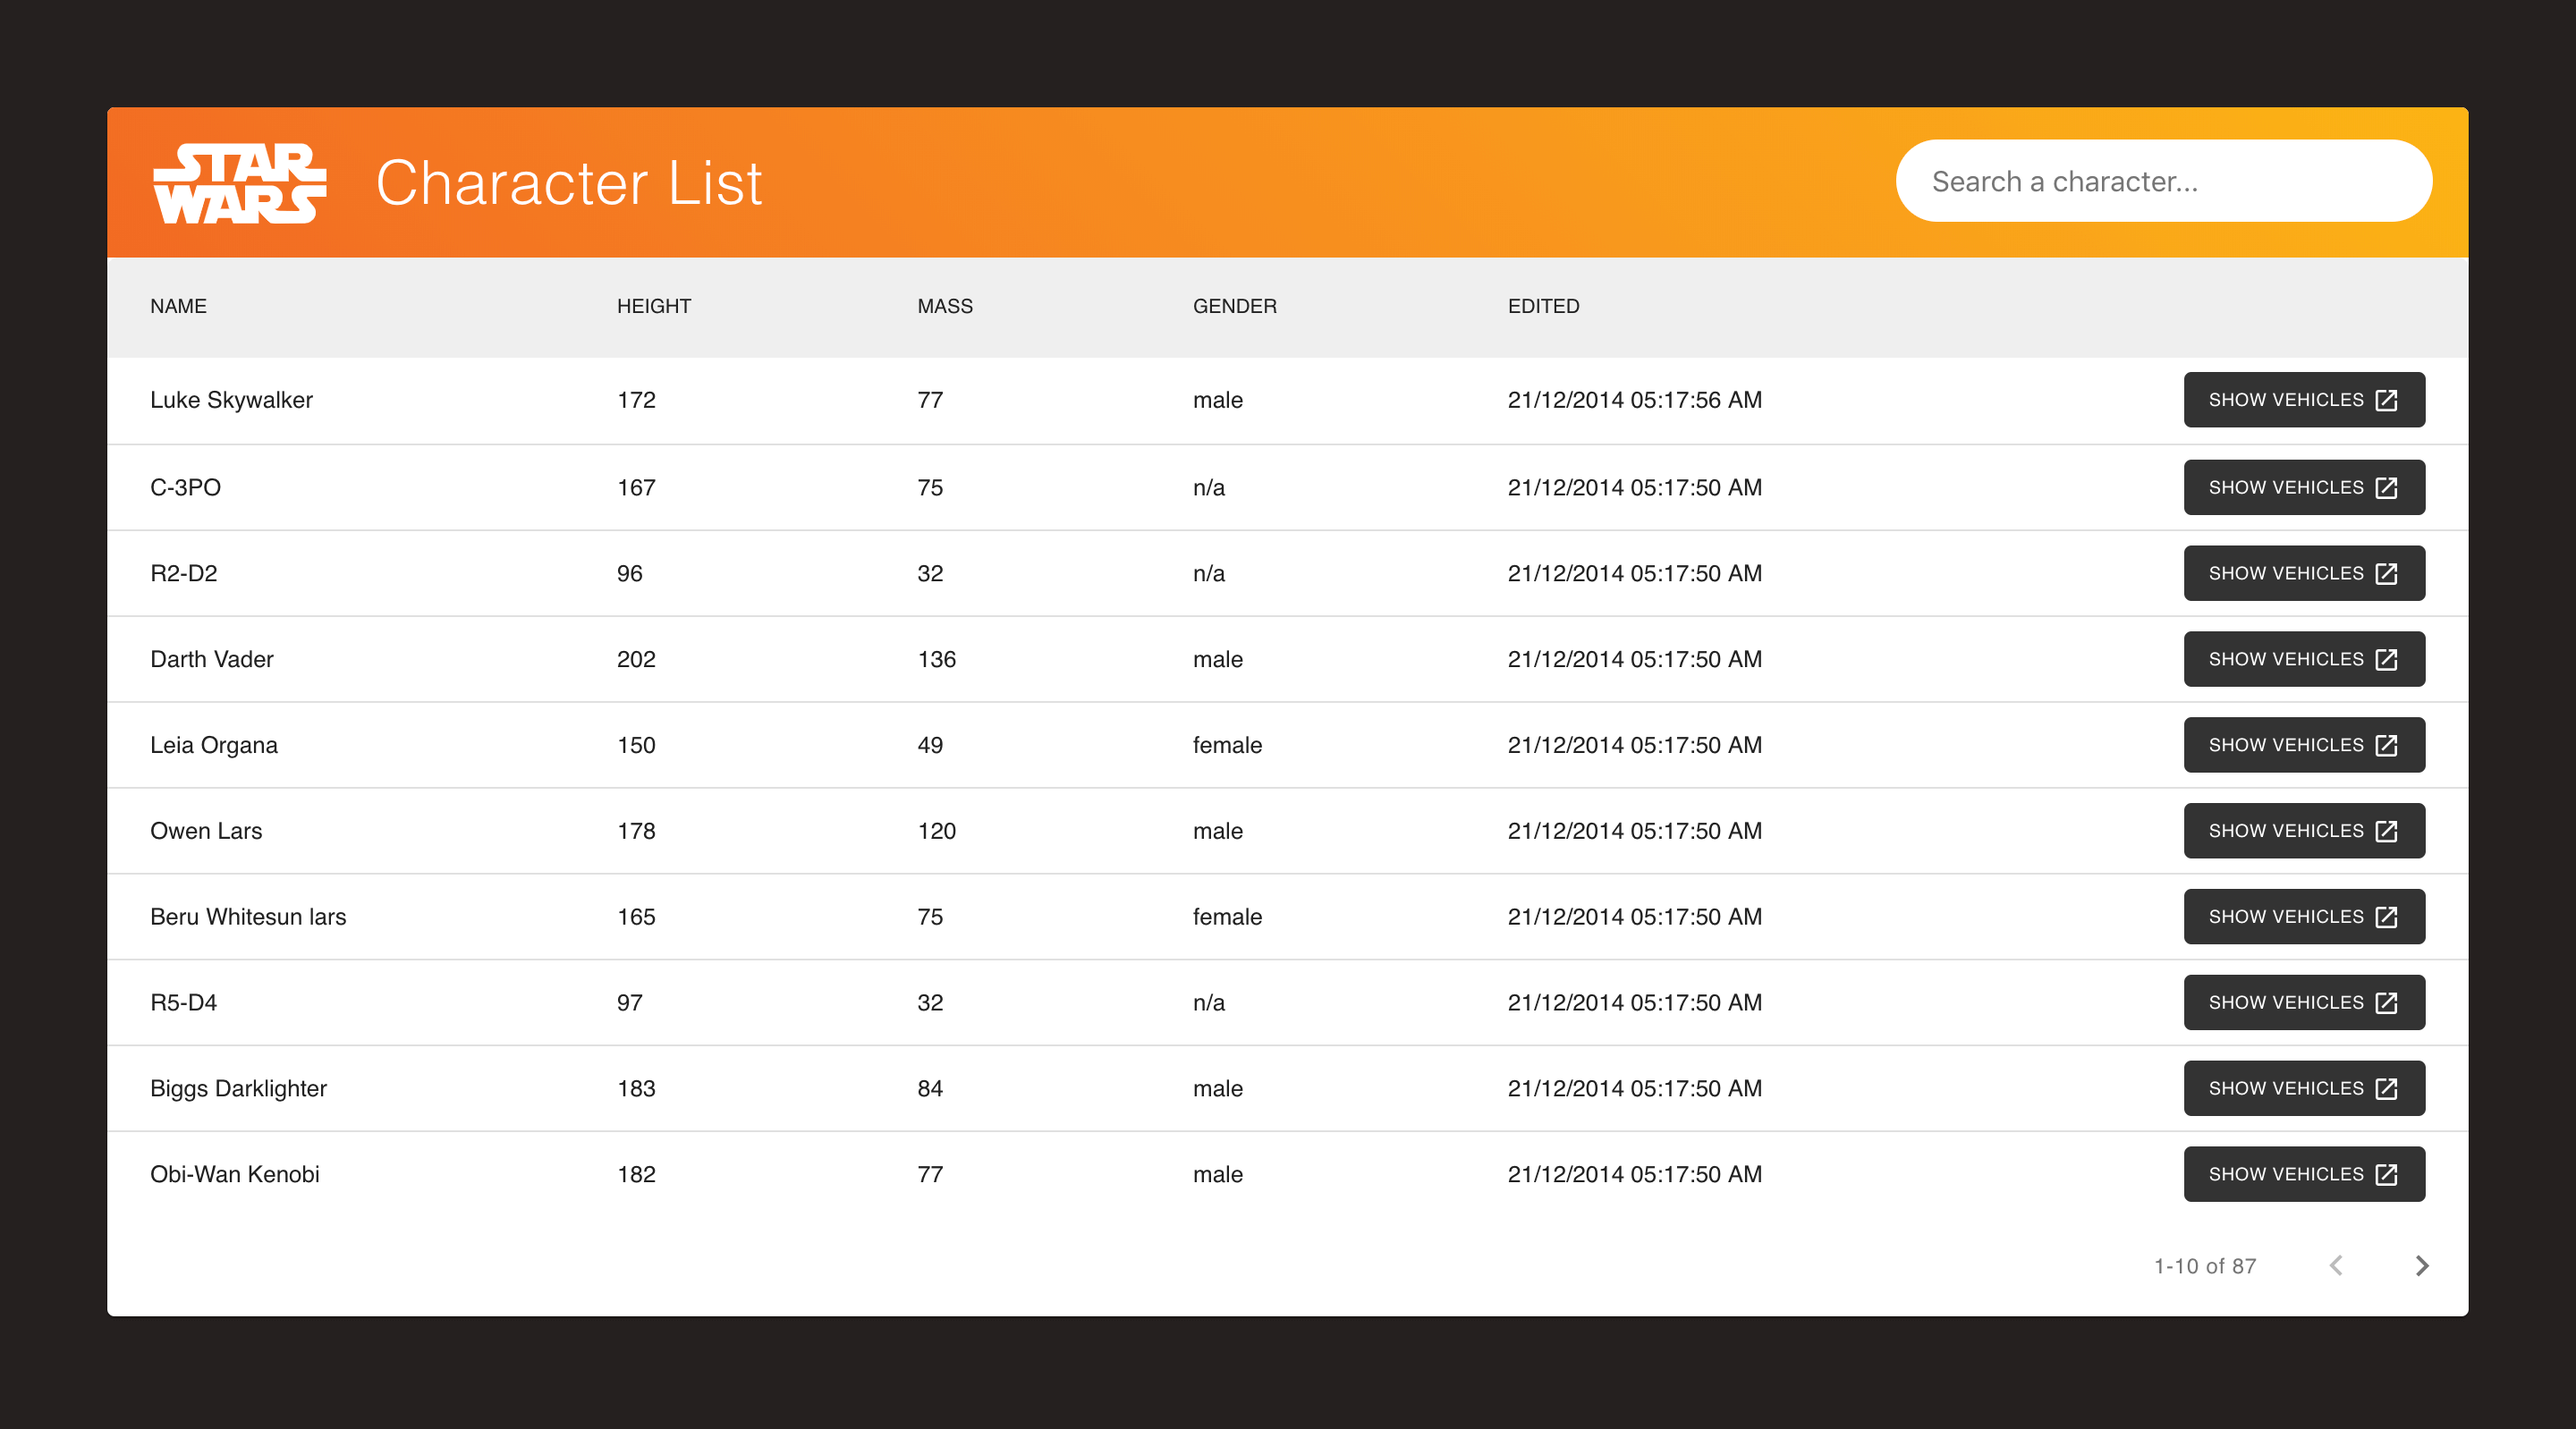
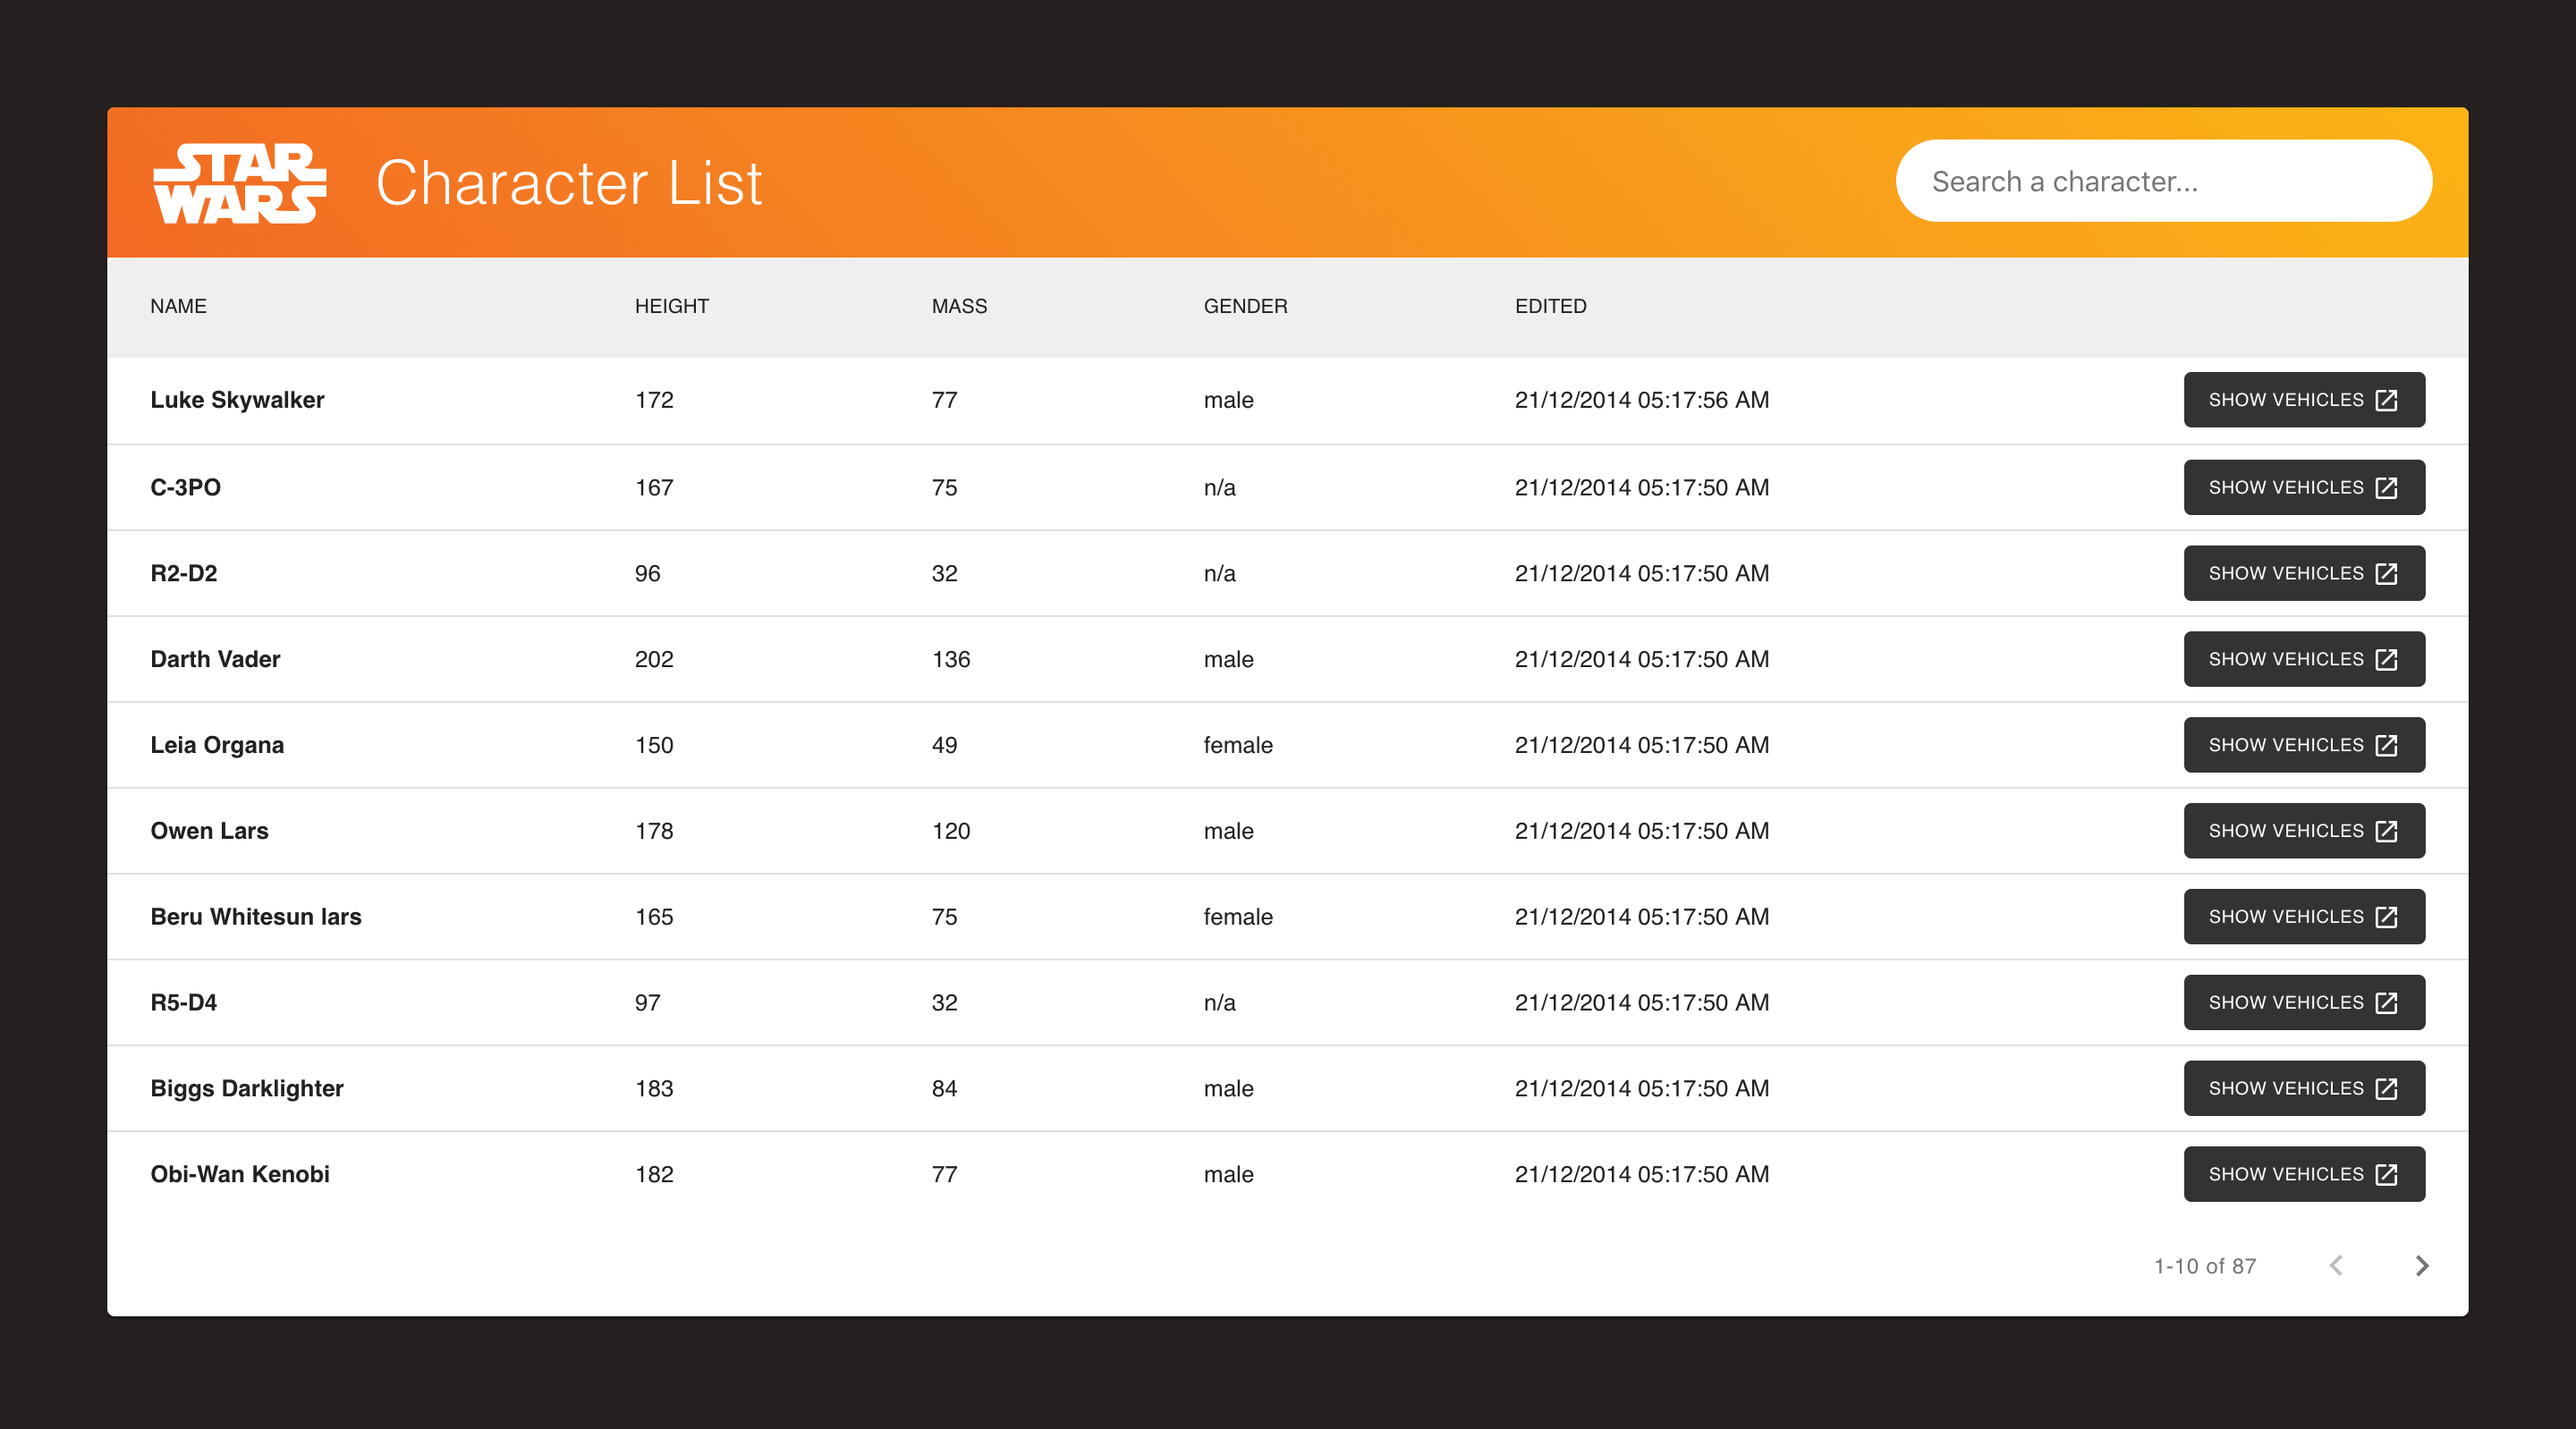
Updated screenshots

diff --git a/src/app/common/table-view/TableViewVehicle.js b/src/app/common/table-view/TableViewVehicle.js
@@ -6,7 +6,7 @@ import TableHead from '@material-ui/core/TableHead'
 import TableRow from '@material-ui/core/TableRow'
 import Spinner from '../spinner/Spinner'
 
-import { TableWrapper, TableContent } from './styles'
+import { TableWrapper, TableContent, TableCellBold } from './styles'
 
 export default class TableView extends Component {
   static propTypes = {
@@ -32,7 +32,7 @@ export default class TableView extends Component {
             <TableBody>
               {data.map(row => (
                 <TableRow key={row.name}>
-                  <TableCell>{row.name}</TableCell>
+                  <TableCellBold>{row.name}</TableCellBold>
                   <TableCell>{row.model}</TableCell>
                   <TableCell>{row.manufacturer}</TableCell>
                   <TableCell>{row.vehicle_class}</TableCell>

diff --git a/src/app/common/table-view/TableView.js b/src/app/common/table-view/TableView.js
@@ -9,7 +9,7 @@ import TablePagination from '@material-ui/core/TablePagination'
 import Moment from 'react-moment'
 import Spinner from '../spinner/Spinner'
 
-import { StyledButton, BtnIcon, TableWrapper } from './styles'
+import { StyledButton, BtnIcon, TableWrapper, TableCellBold } from './styles'
 
 export default class TableView extends Component {
   static propTypes = {
@@ -49,7 +49,7 @@ export default class TableView extends Component {
           <TableBody>
             {data.map(row => (
               <TableRow key={row.name}>
-                <TableCell>{row.name}</TableCell>
+                <TableCellBold>{row.name}</TableCellBold>
                 <TableCell>{row.height}</TableCell>
                 <TableCell>{row.mass}</TableCell>
                 <TableCell>{row.gender}</TableCell>

diff --git a/src/app/common/table-view/styles.js b/src/app/common/table-view/styles.js
@@ -1,10 +1,14 @@
-import { Button, Table, Icon } from '@material-ui/core'
+import { Button, Table, Icon, TableCell } from '@material-ui/core'
 import styled from 'styled-components'
 
 export const TableContent = styled.div`
   border: 1px solid #efefef;
   border-radius: 6px;
   overflow: auto;
+`
+
+export const TableCellBold = styled(TableCell)`
+  font-weight: bold !important;
 `
 
 export const StyledButton = styled(Button)`

diff --git a/src/app/common/search/Search.test.js b/src/app/common/search/Search.test.js
@@ -15,10 +15,9 @@ describe('Search component', () => {
   test('user text is echoed', () => {
     const wrapper = shallow(<Search />)
 
-    console.log(wrapper.find('SearchInput'))
-
     wrapper.find('SearchInput').simulate('change', {
-      target: { value: 'hello' }
+      target: { value: 'Ana' }
     })
+    expect(wrapper.find("input").props().value).toEqual("hello");
   })
 })
